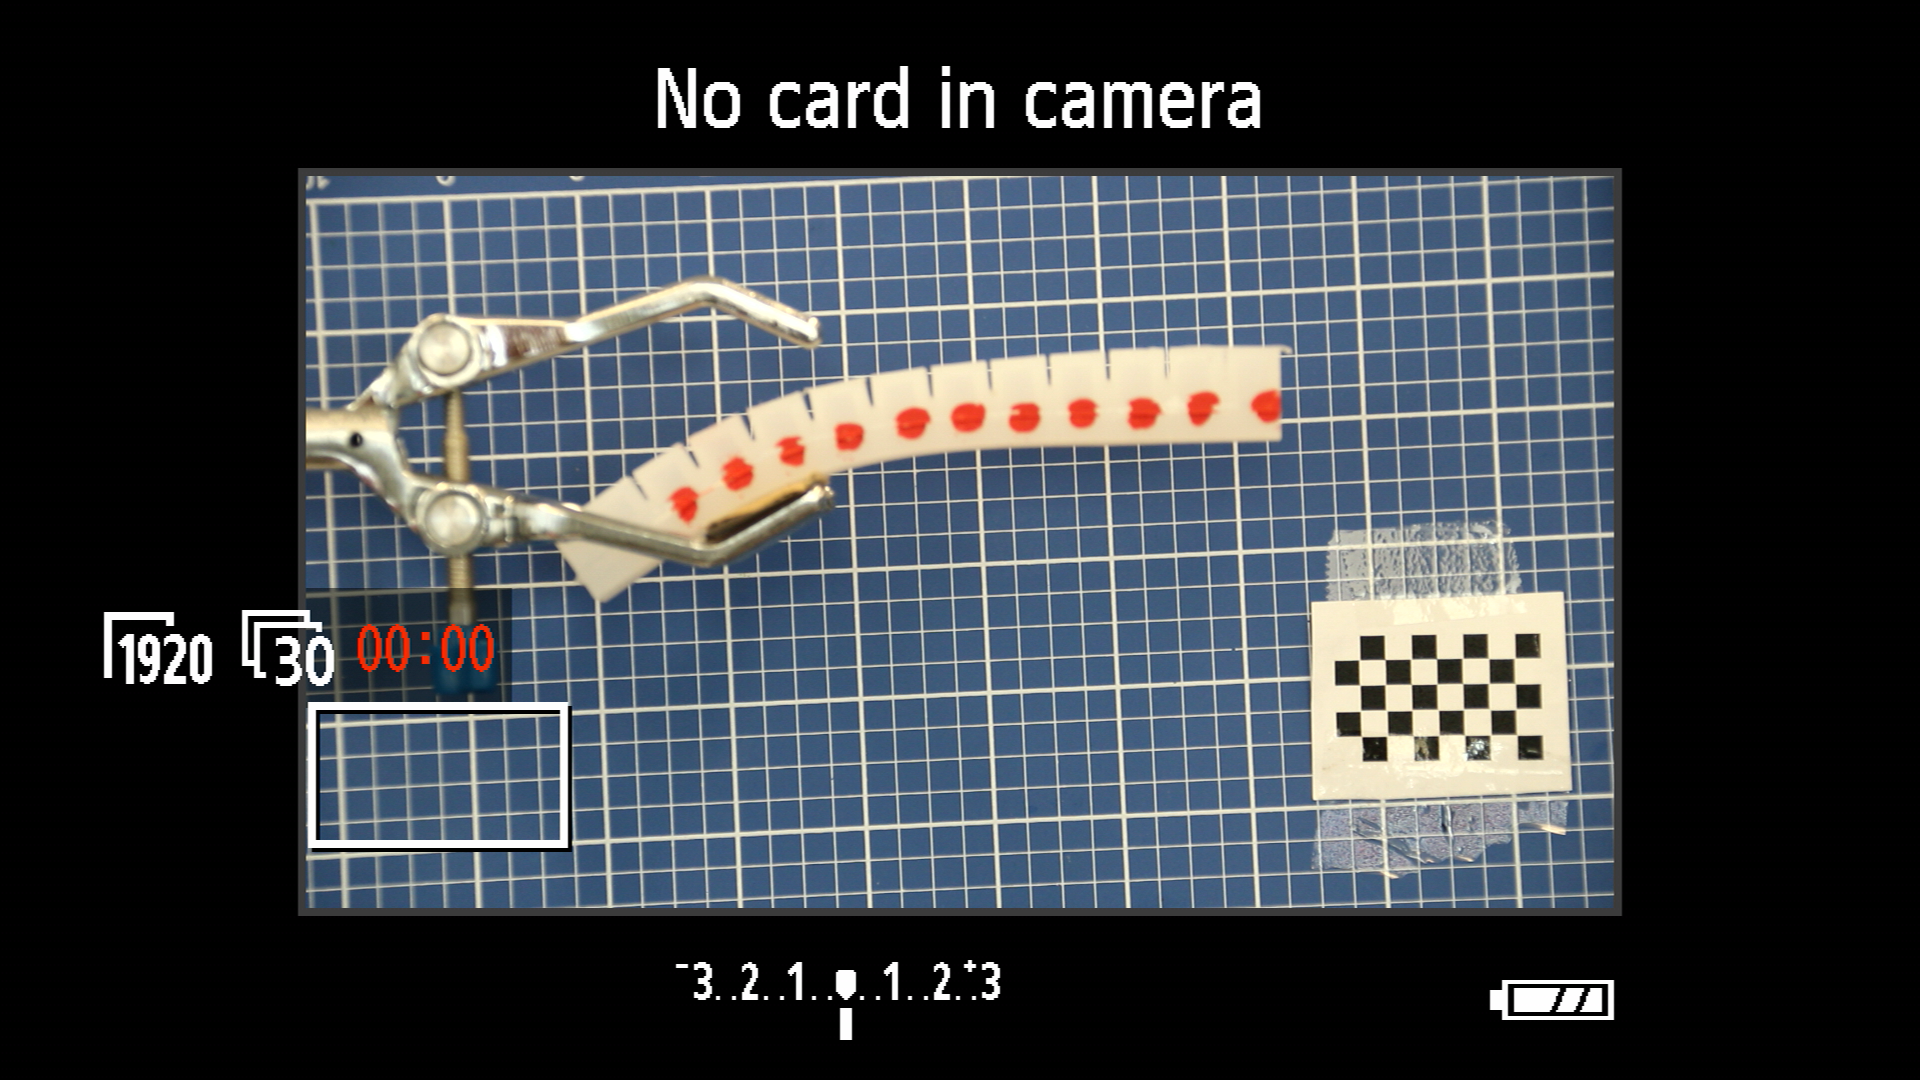
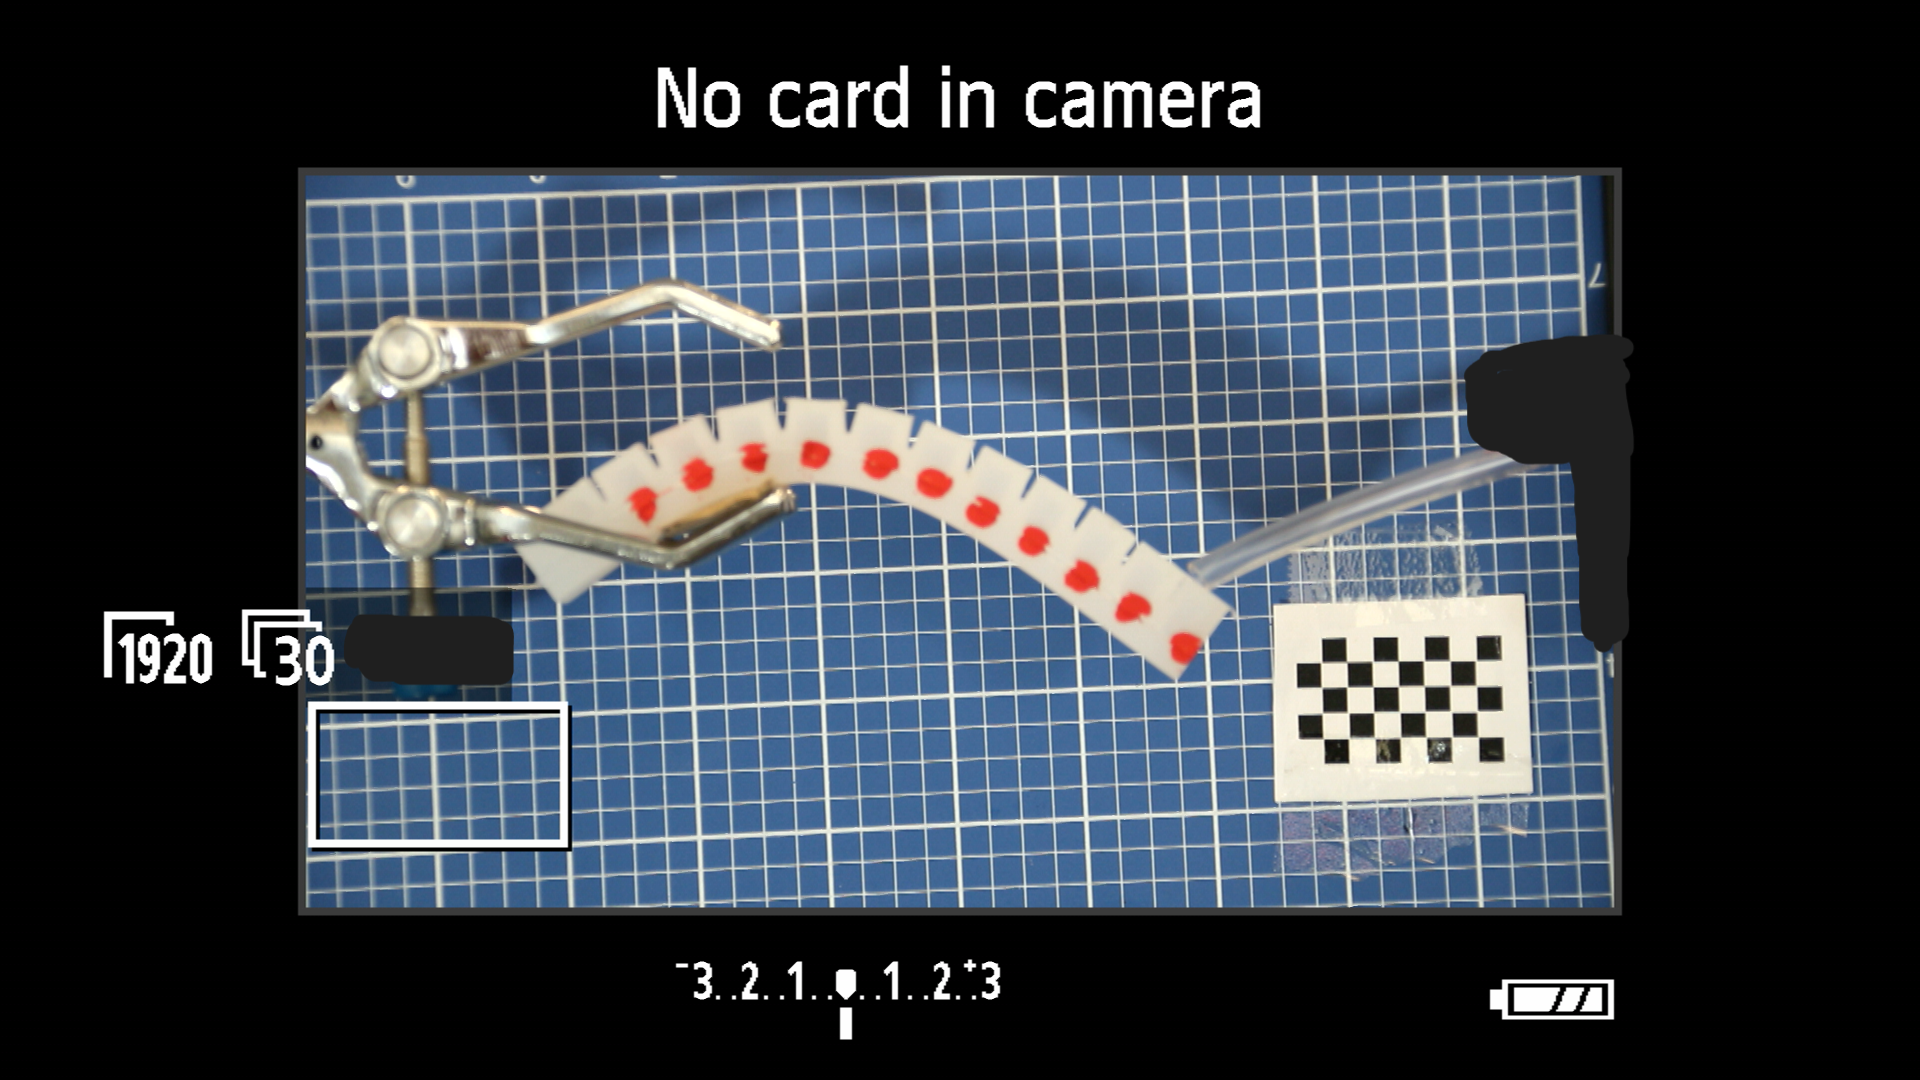
Edited photos to remove red timer

diff --git a/dot_deflection_tracking.py b/dot_deflection_tracking.py
@@ -62,7 +62,7 @@ def ShapeDet(images, ref_Width):
     YList = []
 
     for i in range(len(images)):
-        print(i)
+        print(f'Processing image {i+1}')
         image = images[i]
         lineLen.append([])
 
@@ -235,14 +235,13 @@ xList, yList, def1Images = ShapeDet(images, refWidth)
 # yArr = np.array(yList)
 # square = math.ceil(math.sqrt(len(images)))
 
-print('get here')
-print(def1Images)
 
 imNum = 0
 for image in def1Images:
     cv.imwrite(f'output_images/out_image{imNum}.png', image)
     imNum += 1
 
+print('IMAGES TRACKED')
 # figure, axis = matplotlib.pyplot.subplot(square, square)
 # P = []
 

diff --git a/test_image_capture.py b/test_image_capture.py
@@ -1,11 +1,12 @@
 import cv2 as cv
+import time
 
 
 camera = cv.VideoCapture(1)
 
-for i in range(5):
-    value, image = camera.read()
-    cv.imwrite(f'test_images/test{i}.png', image)
+time.sleep(7)
+value, image = camera.read()
+cv.imwrite('test_images/test2.png', image)
 
 del(camera)
  

diff --git a/delete_images.py b/delete_images.py
@@ -7,6 +7,6 @@ Description:    Deletes all of the images from in the camera_images directory th
 import os
 import glob
 
-files = glob.glob('camera_images/*')
+files = glob.glob('output_images/*')
 for f in files:
     os.remove(f)
